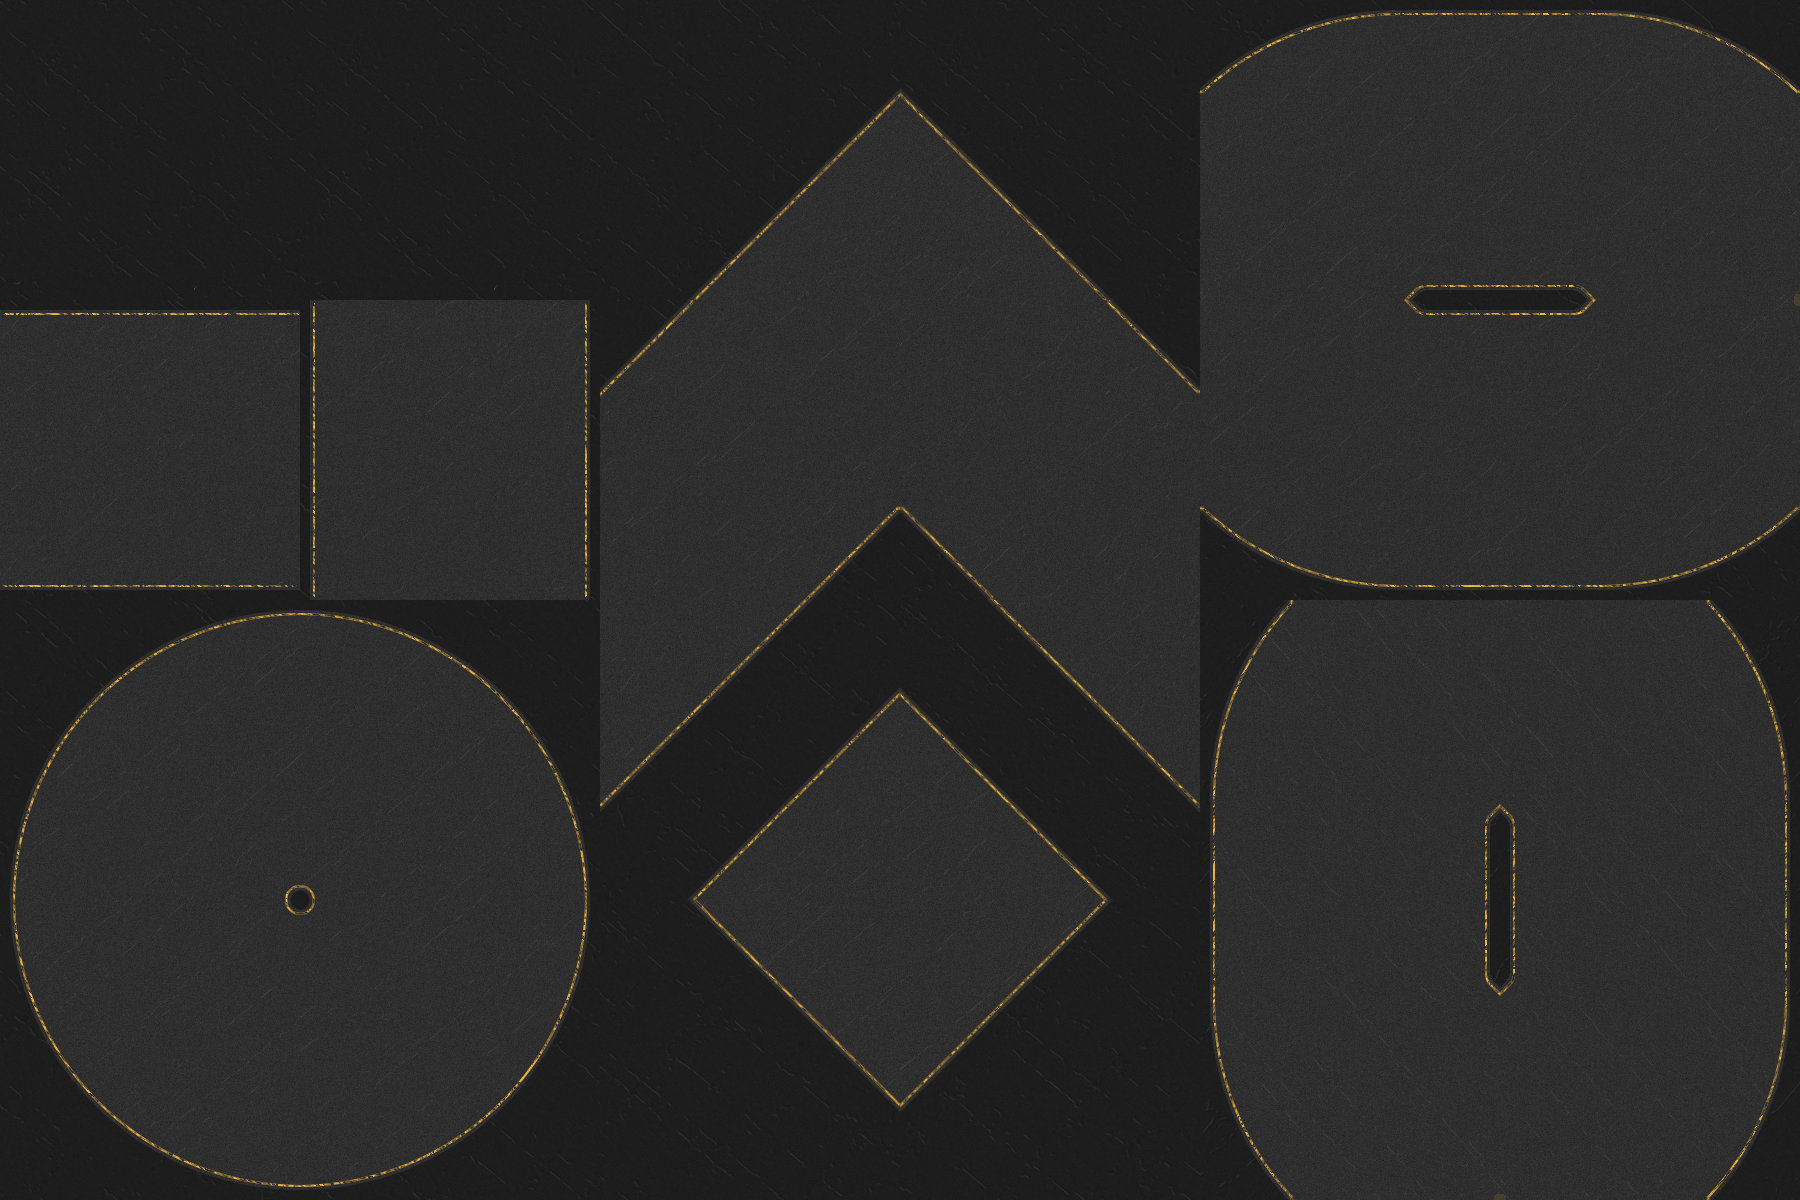
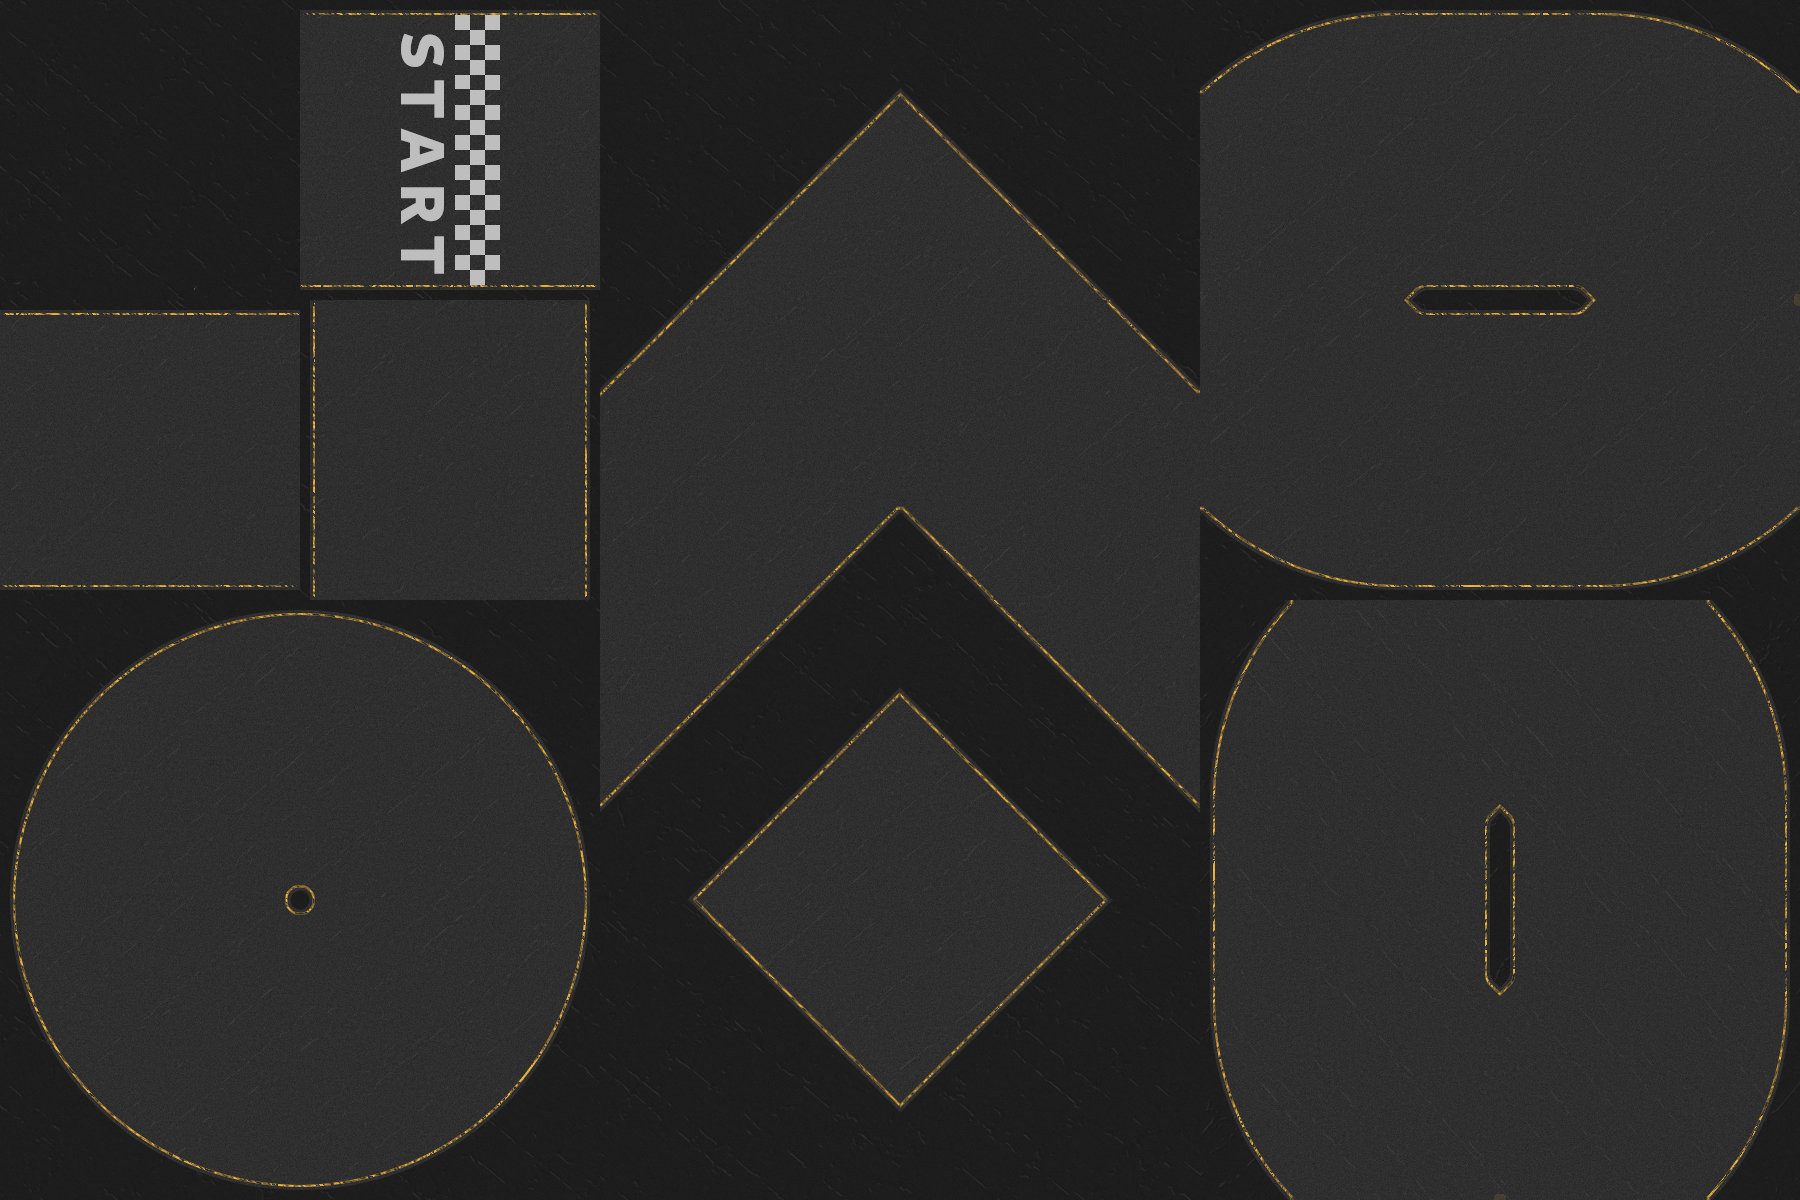
Add start tile.  Add figure 8 track.

Changed region(s): [[0.1867, 0.0, 0.3422, 0.2467]]

diff --git a/assets/maps/worn_track.tsx b/assets/maps/worn_track.tsx
@@ -1,0 +1,4 @@
+<?xml version="1.0" encoding="UTF-8"?>
+<tileset version="1.2" tiledversion="1.3.3" name="worn_track" tilewidth="300" tileheight="300" tilecount="24" columns="6">
+ <image source="../worn_track.jpg" width="1800" height="1200"/>
+</tileset>
